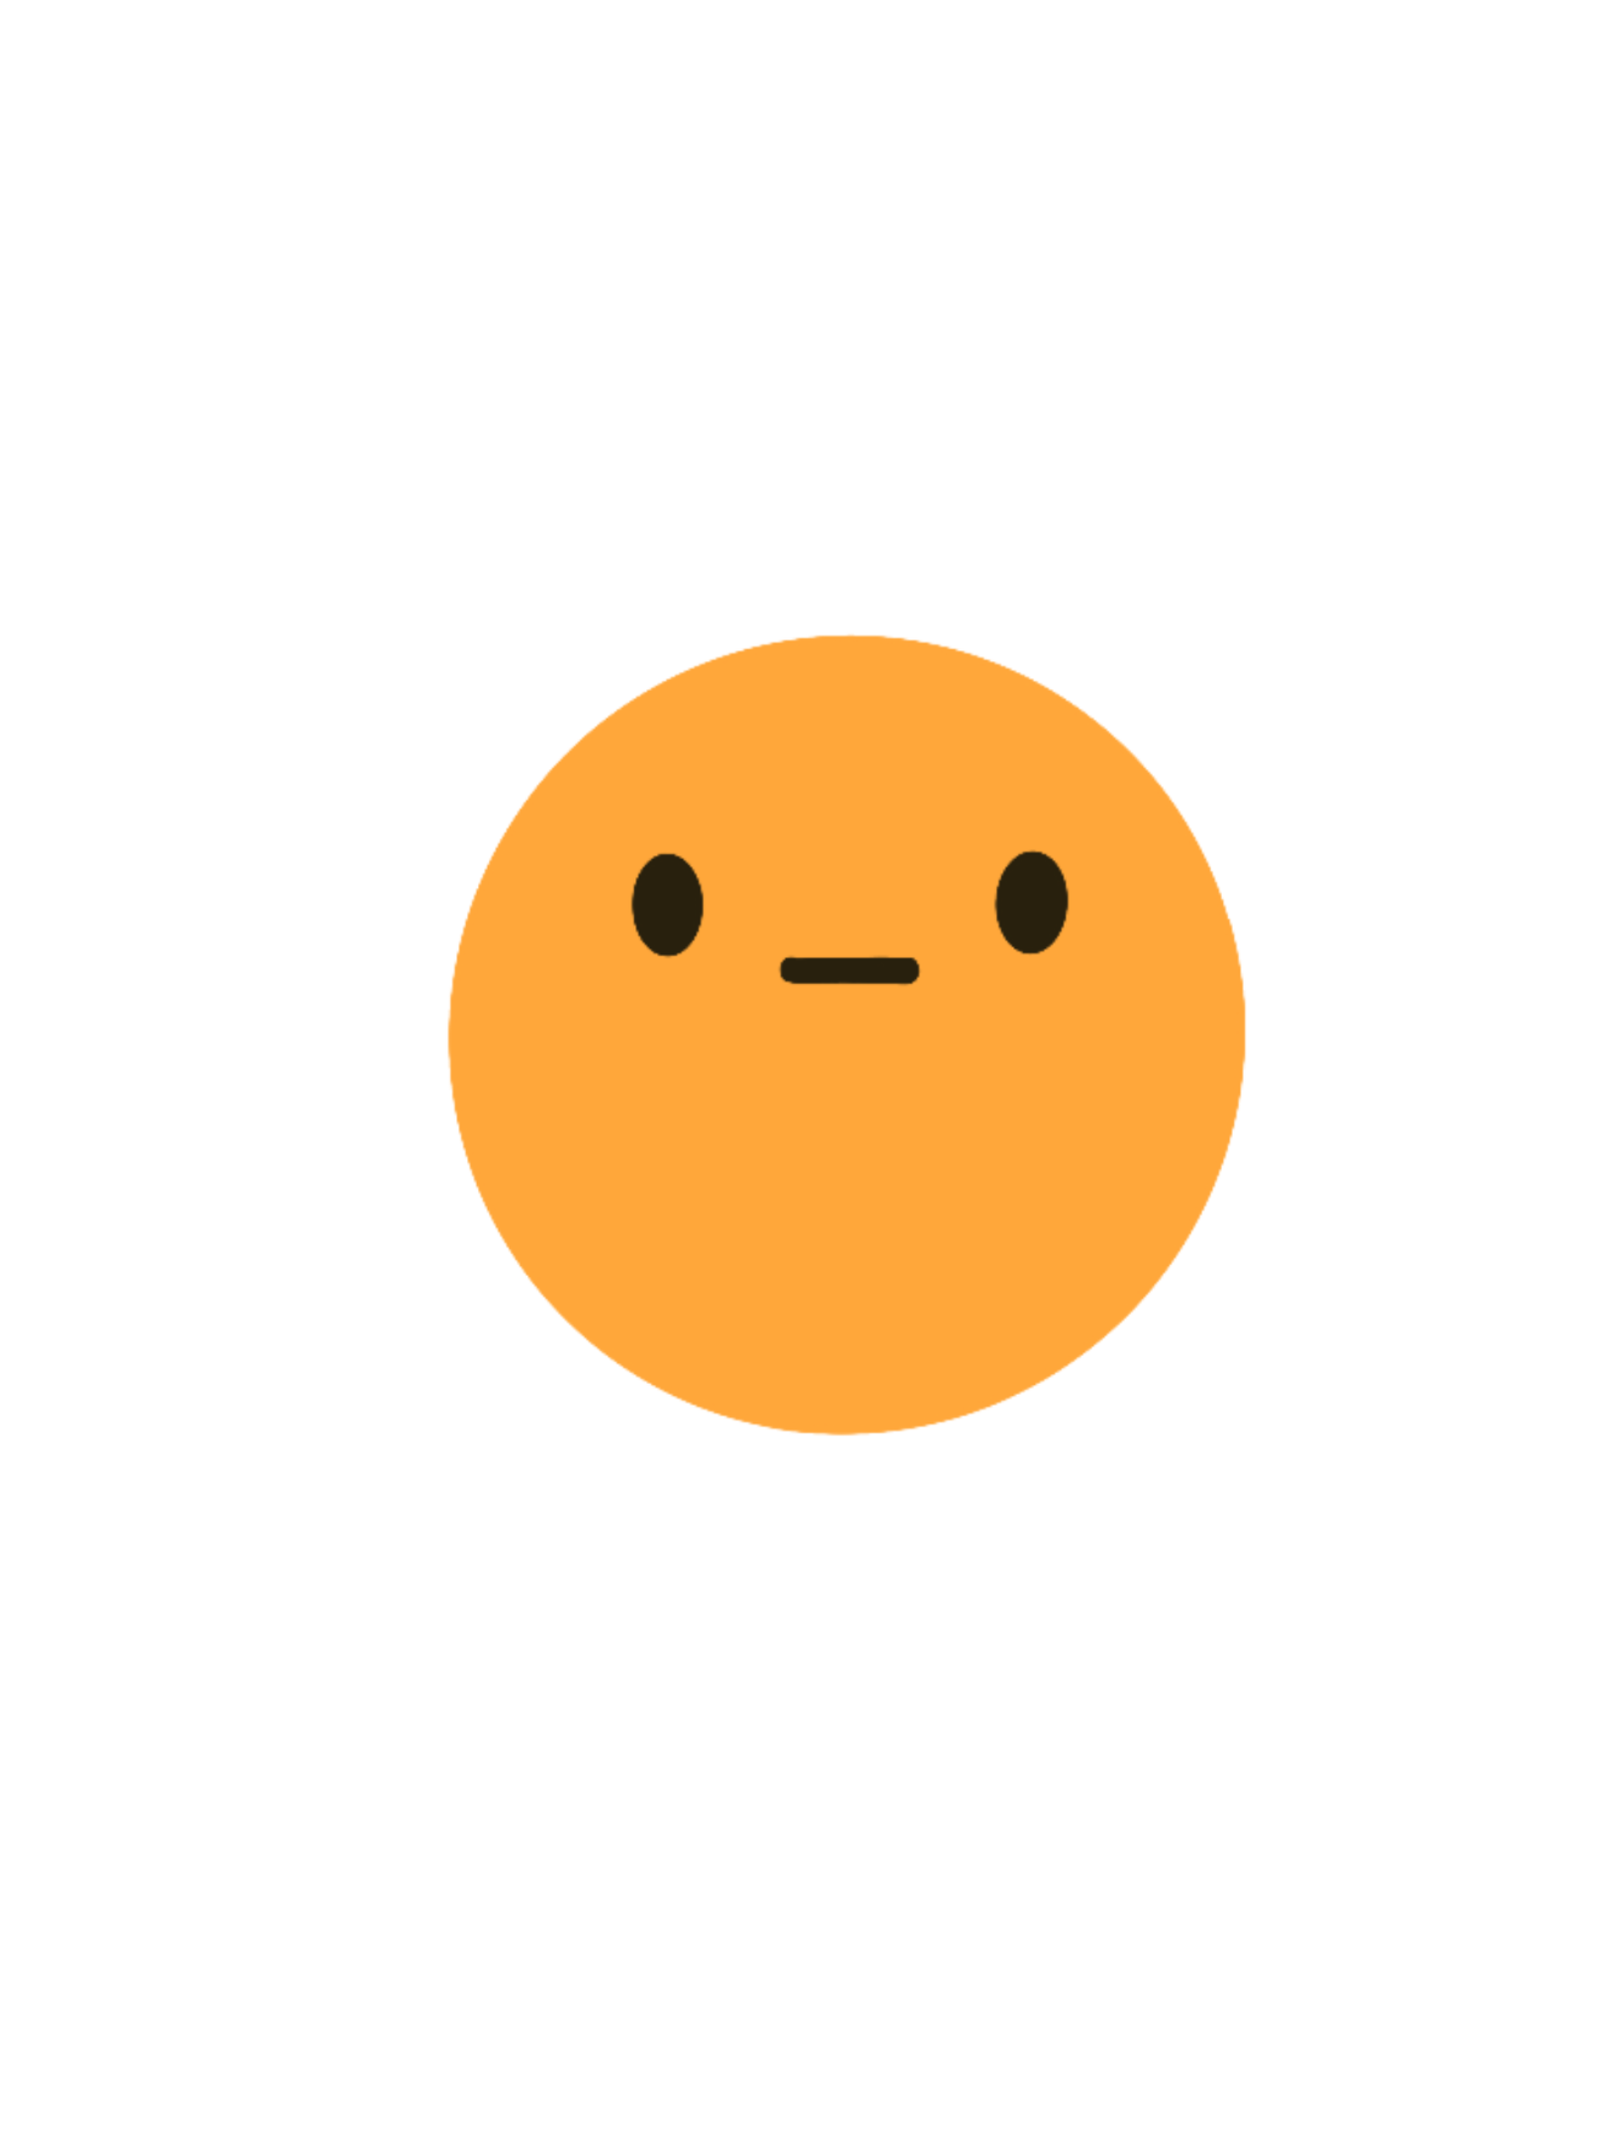
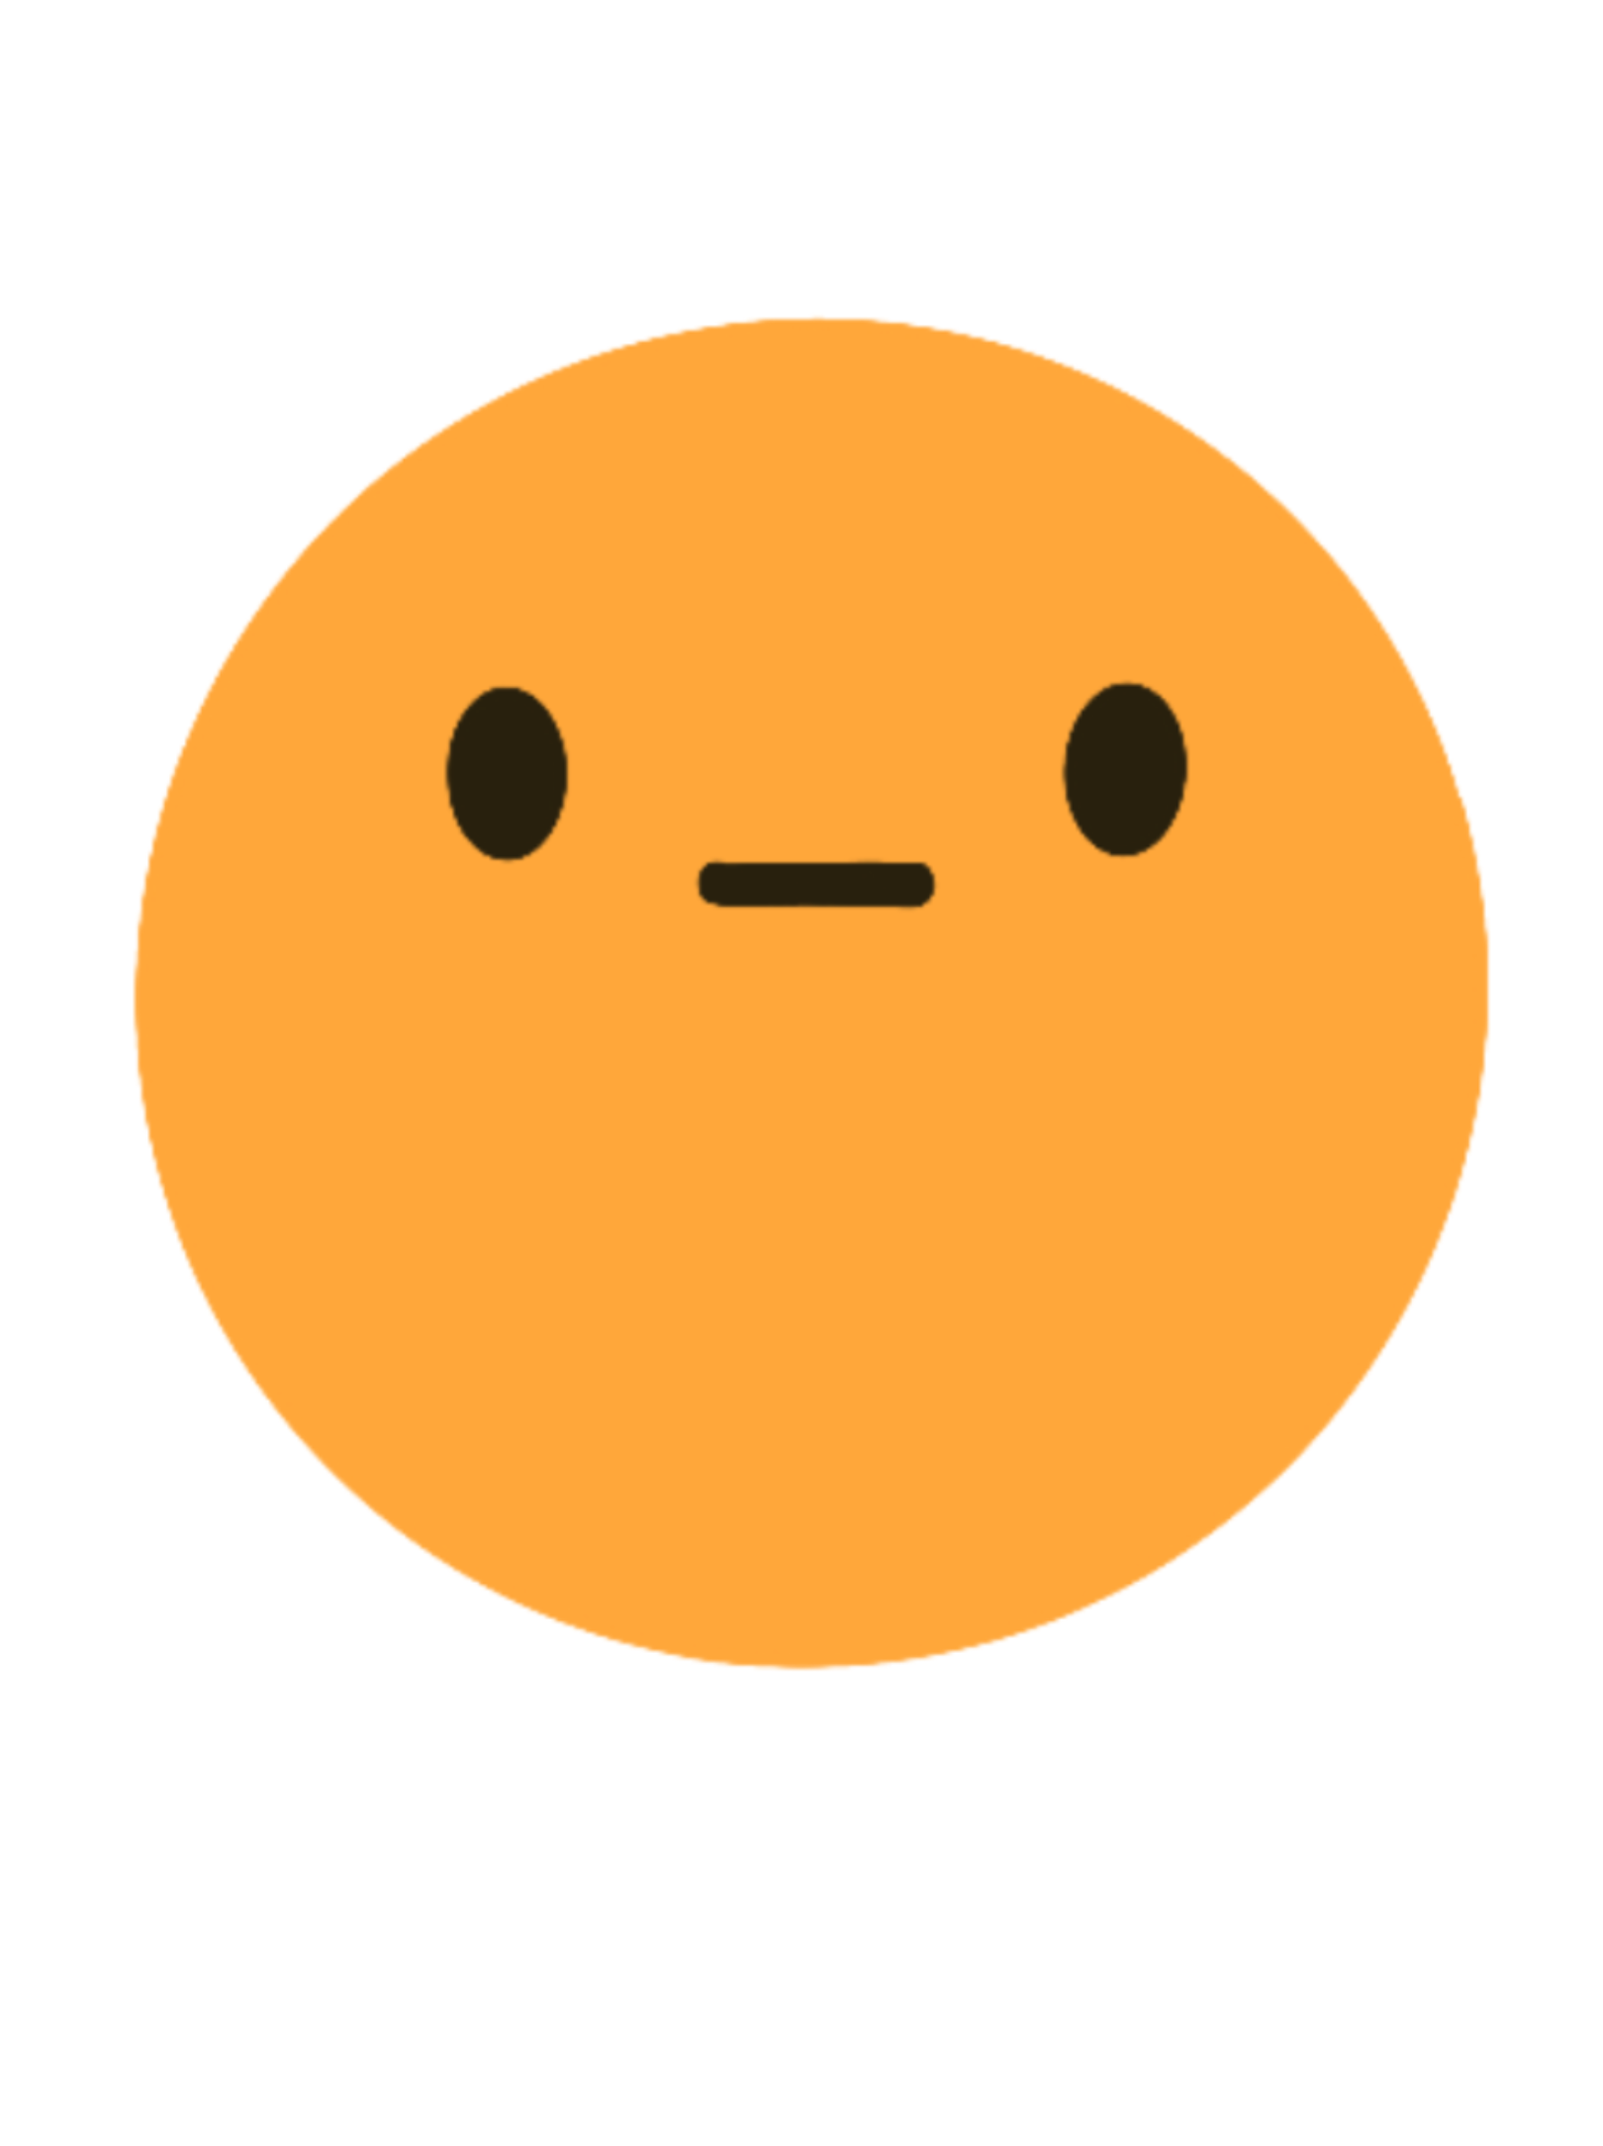
Edited the mood widgets

Changed region(s): [[0.0617, 0.1236, 0.9259, 0.8035], [0.3704, 0.4018, 0.5864, 0.4636]]

diff --git a/lib/components/healthjournal/dailyquestions.dart b/lib/components/healthjournal/dailyquestions.dart
@@ -1,4 +1,5 @@
 import 'package:flutter/material.dart';
+import 'package:google_fonts/google_fonts.dart';
 import 'package:healthmate1/components/healthjournal/SharedPreferencesService.dart';
 
 class DailyQuestions extends StatefulWidget {
@@ -52,7 +53,16 @@ class _DailyQuestionsPageState extends State<DailyQuestions> {
   @override
   Widget build(BuildContext context) {
     return Scaffold(
-      appBar: AppBar(title: Text("Daily Questions")),
+      appBar: AppBar(title: Text(
+        "Daily Questions",
+        style: GoogleFonts.fredoka(
+            color: Colors.white ,
+            fontSize: 27.0,
+            fontWeight: FontWeight.bold,
+          ),
+        ),
+        backgroundColor: Color(0xFF8888e8),
+      ),
       body: Padding(
         padding: const EdgeInsets.all(16.0),
         child: SingleChildScrollView(
@@ -60,6 +70,7 @@ class _DailyQuestionsPageState extends State<DailyQuestions> {
             children: [
               TextField(
                 controller: _goalController,
+                style: GoogleFonts.fredoka(),
                 decoration: InputDecoration(
                   labelText: "What is one thing you wish to accomplish today?",
                   border: OutlineInputBorder(),
@@ -68,6 +79,7 @@ class _DailyQuestionsPageState extends State<DailyQuestions> {
               SizedBox(height: 10),
               TextField(
                 controller: _feelBetterController,
+                style: GoogleFonts.fredoka(),
                 decoration: InputDecoration(
                   labelText: "What can you do to feel better today?",
                   border: OutlineInputBorder(),
@@ -76,6 +88,7 @@ class _DailyQuestionsPageState extends State<DailyQuestions> {
               SizedBox(height: 10),
               TextField(
                 controller: _laughController,
+                style: GoogleFonts.fredoka(),
                 decoration: InputDecoration(
                   labelText: "What made you laugh today?",
                   border: OutlineInputBorder(),
@@ -84,6 +97,7 @@ class _DailyQuestionsPageState extends State<DailyQuestions> {
               SizedBox(height: 10),
               TextField(
                 controller: _sleepController,
+                style: GoogleFonts.fredoka(),
                 decoration: InputDecoration(
                   labelText: "How did you sleep last night?",
                   border: OutlineInputBorder(),
@@ -92,6 +106,7 @@ class _DailyQuestionsPageState extends State<DailyQuestions> {
               SizedBox(height: 10),
               TextField(
                 controller: _areYouOkayController,
+                style: GoogleFonts.fredoka(),
                 decoration: InputDecoration(
                   labelText: "Are you okay?",
                   border: OutlineInputBorder(),
@@ -100,6 +115,7 @@ class _DailyQuestionsPageState extends State<DailyQuestions> {
               SizedBox(height: 10),
               TextField(
                 controller: _stressLevelController,
+                style: GoogleFonts.fredoka(),
                 decoration: InputDecoration(
                   labelText: "What was your stress level today? (1-10)",
                   border: OutlineInputBorder(),
@@ -109,6 +125,7 @@ class _DailyQuestionsPageState extends State<DailyQuestions> {
               SizedBox(height: 10),
               TextField(
                 controller: _notesController,
+                style: GoogleFonts.fredoka(),
                 decoration: InputDecoration(
                   labelText: "Any other notes?",
                   border: OutlineInputBorder(),
@@ -118,7 +135,15 @@ class _DailyQuestionsPageState extends State<DailyQuestions> {
               SizedBox(height: 20),
               ElevatedButton(
                 onPressed: _saveResponses,
-                child: Text("Save Responses"),
+                child: Text(
+                  "Save Responses",
+                  style: GoogleFonts.fredoka(
+                        fontSize: 16,
+                        fontWeight: FontWeight.w600,
+                        color:Color.fromARGB(255, 72, 72, 120),
+                    ),
+
+                  ),
               ),
             ],
           ),

diff --git a/lib/components/healthjournal/moodwidget.dart b/lib/components/healthjournal/moodwidget.dart
@@ -18,7 +18,8 @@ class _MoodWidgetState extends State<MoodWidget> {
     super.initState();
     _loadMood();
   }
-Future<void> _loadMood() async {
+
+  Future<void> _loadMood() async {
     String dateKey = 'mood_${widget.selectedDate.toString()}';
     String moodImage = SharedPreferencesService.getString(dateKey);
     setState(() {
@@ -34,59 +35,62 @@ Future<void> _loadMood() async {
     });
   }
 
- @override
+  @override
   Widget build(BuildContext context) {
-  double screenWidth = MediaQuery.of(context).size.width;
+    double screenWidth = MediaQuery.of(context).size.width;
+    int numberOfColumns = 5;
+    double padding = 1;
+    double spacing = 1;
 
-  int numberOfColumns = 3;
-  double imageWidth = (screenWidth / numberOfColumns) - 10;
-  double imageHeight = imageWidth;
+    double imageSize = (screenWidth - (padding * 2) - (spacing * (numberOfColumns - 1))) / numberOfColumns;
 
-  return Column(
-    children: [
-    /*
-      Padding(
-        padding: const EdgeInsets.all(8.0),
-        child: Text(
-          "How are you feeling today?",
-          textAlign: TextAlign.center,
-          style: TextStyle(fontSize: 20, fontWeight: FontWeight.bold),
+    return Column(
+      crossAxisAlignment: CrossAxisAlignment.center,
+      children: [
+        Padding(
+          padding: const EdgeInsets.only(top: 30.0, bottom: 12.0),
         ),
-      ),
-    */ 
-      GridView.builder(
-        shrinkWrap: true,
-        physics: NeverScrollableScrollPhysics(),
-        padding: EdgeInsets.all(5),
-        gridDelegate: SliverGridDelegateWithFixedCrossAxisCount(
-          crossAxisCount: numberOfColumns,
-          crossAxisSpacing: 5,
-          mainAxisSpacing: 5,
-        ),
-        itemCount: moods.length,
-        itemBuilder: (context, index) {
-          bool isSelected = moods[index].imagelib == _selectedMoodImage;
-          return GestureDetector(
-            onTap: () => _saveMood(moods[index].imagelib),
-            child: Container(
-              decoration: isSelected
-                  ? BoxDecoration(
-                      border: Border.all(
-                        color: Color.fromARGB(255, 173, 143, 255),
-                        width: 2,
-                      ),
-                      borderRadius: BorderRadius.circular(9),
-                    )
-                  : null,
-              child: Image.asset(
-                moods[index].imagelib,
-                fit: BoxFit.cover,
-              ),
+        Padding(
+          padding: EdgeInsets.symmetric(horizontal: padding),
+          child: GridView.builder(
+            shrinkWrap: true,
+            physics: NeverScrollableScrollPhysics(),
+            itemCount: moods.length,
+            gridDelegate: SliverGridDelegateWithFixedCrossAxisCount(
+              crossAxisCount: numberOfColumns,
+              crossAxisSpacing: spacing,
+              mainAxisSpacing: spacing,
+              childAspectRatio: 1, // Makes each grid square
             ),
-          );
-        },
-      ),
-    ],
-  );
+            itemBuilder: (context, index) {
+              bool isSelected = moods[index].imagelib == _selectedMoodImage;
+              return GestureDetector(
+                onTap: () => _saveMood(moods[index].imagelib),
+                child: Container(
+                  decoration: BoxDecoration(
+                    border: isSelected
+                        ? Border.all(
+                            color: Color.fromARGB(255, 173, 143, 255),
+                            width: 2,
+                          )
+                        : null,
+                    borderRadius: BorderRadius.circular(12),
+                  ),
+                  child: ClipRRect(
+                    borderRadius: BorderRadius.circular(8),
+                    child: Image.asset(
+                      moods[index].imagelib,
+                      width: imageSize,
+                      height: imageSize,
+                      fit: BoxFit.contain, // Prevents cropping
+                    ),
+                  ),
+                ),
+              );
+            },
+          ),
+        ),
+      ],
+    );
   }
 }

diff --git a/lib/pages/healthjournal.dart b/lib/pages/healthjournal.dart
@@ -50,7 +50,16 @@ class _HealthJournalState extends State<HealthJournal> {
   @override
   Widget build(BuildContext context) {
     return Scaffold(
-      appBar: AppBar(title: Text("My Health Journal")),
+      appBar: AppBar(title: Text(
+        "My Health Journal",
+        style: GoogleFonts.fredoka(
+            color: Colors.white ,
+            fontSize: 27.0,
+            fontWeight: FontWeight.bold,
+          ),
+        ),
+        backgroundColor: Color(0xFF8888e8),
+      ),
       body: SingleChildScrollView(
         padding: EdgeInsets.all(12),
         child: Column(
@@ -70,10 +79,11 @@ class _HealthJournalState extends State<HealthJournal> {
                 children: [
               Text(
               "Mood for the Day",
-              style: GoogleFonts.lato(
+              style: GoogleFonts.fredoka(
                 textStyle: TextStyle(
-                   fontSize: 18,
-                   fontWeight: FontWeight.bold,
+                  color:Color.fromARGB(255, 72, 72, 120),
+                  fontSize: 24,
+                  fontWeight: FontWeight.w600,
                     ),
                   ),
               ),
@@ -86,8 +96,14 @@ class _HealthJournalState extends State<HealthJournal> {
             SizedBox(height: 20),
             Text(
               "Daily Check-in",
-              style: TextStyle(fontSize: 18, fontWeight: FontWeight.bold),
-            ),
+              style: GoogleFonts.fredoka(
+                textStyle: TextStyle(
+                  color:Color.fromARGB(255, 72, 72, 120),
+                  fontSize: 23,
+                  fontWeight: FontWeight.w600,
+                    ),
+                  ),
+              ),
             SizedBox(height: 10),
             TextField(
               controller: _sleepController,
@@ -108,7 +124,16 @@ class _HealthJournalState extends State<HealthJournal> {
             SizedBox(height: 20),
             ElevatedButton(
               onPressed: _saveResponses,
-              child: Text("Save Responses"),
+              child: Text(
+                "Save Responses",
+                style: GoogleFonts.fredoka(
+                textStyle: TextStyle(
+                  color:Color.fromARGB(255, 72, 72, 120),
+                  fontSize: 16,
+                  fontWeight: FontWeight.w500,
+                    ),
+                  ),
+              ),
             ),
             SizedBox(height: 20),
             Center(
@@ -122,8 +147,14 @@ class _HealthJournalState extends State<HealthJournal> {
                   );
                 },
                 child: Text(
-                  "Answer Daily Questions",
-                  style: TextStyle(fontSize: 16, fontWeight: FontWeight.w500),
+                  "Daily Questions",
+                  style: GoogleFonts.fredoka(
+                  textStyle: TextStyle(
+                  color:Color.fromARGB(255, 72, 72, 120),
+                  fontSize: 18,
+                  fontWeight: FontWeight.w600,
+                    ),
+                  ),
                 ),
               ),
             ),

diff --git a/lib/main.dart b/lib/main.dart
@@ -1,6 +1,5 @@
 import 'package:flutter/material.dart';
 import 'package:healthmate1/pages/healthjournal.dart';
-import 'package:healthmate1/pages/healthbot.dart';
 import 'package:healthmate1/pages/homepage.dart';
 import 'package:healthmate1/pages/myhealth.dart';
 import 'package:healthmate1/pages/settings.dart';
@@ -25,7 +24,7 @@ class MyApp extends StatelessWidget {
       routes: {
         '/HomePage': (context) => const Homepage(),
         '/HealthJournal': (context) => HealthJournal(),
-        '/HealthBot': (context) => const HealthBot(),
+        //'/HealthBot': (context) => const HealthBot(),
         '/MyHealth': (context) => const MyHealth(),
         '/Settings': (context) => const Settings(),
         //'/Hospitals' :(context) => Hospitals(),

diff --git a/lib/db/consultation_helper.dart b/lib/db/consultation_helper.dart
@@ -1,3 +1,4 @@
+/*
 import 'package:sqflite/sqflite.dart';
 import 'package:path/path.dart';
 import 'package:flutter/foundation.dart';
@@ -117,3 +118,4 @@ class HealthMateConsultationDB {
     debugPrint("Consultation ID $consultationId removed successfully!");
   }
 }
+*/

diff --git a/lib/db/database_helper.dart b/lib/db/database_helper.dart
@@ -1,3 +1,4 @@
+/*
 import 'package:sqflite/sqflite.dart';
 import 'package:path/path.dart';
 import 'package:flutter/foundation.dart';
@@ -80,3 +81,4 @@ class HealthMateDatabase {
     debugPrint("Patient ID $id has been removed from HealthMate.");
   }
 }
+*/

diff --git a/lib/pages/healthbot.dart b/lib/pages/healthbot.dart
@@ -1,3 +1,4 @@
+/*
 import 'package:flutter/material.dart';
 import 'package:flutter/foundation.dart';
 import '../db/ai_helper.dart';
@@ -185,3 +186,4 @@ class _HealthBotState extends State<HealthBot> {
     );
   }
 }
+*/

diff --git a/lib/db/ai_helper.dart b/lib/db/ai_helper.dart
@@ -1,3 +1,4 @@
+/*
 import 'package:http/http.dart' as http;
 import 'dart:convert';
 import 'package:flutter/foundation.dart';
@@ -61,3 +62,4 @@ class AIHelper {
     }
   }
 }
+*/
